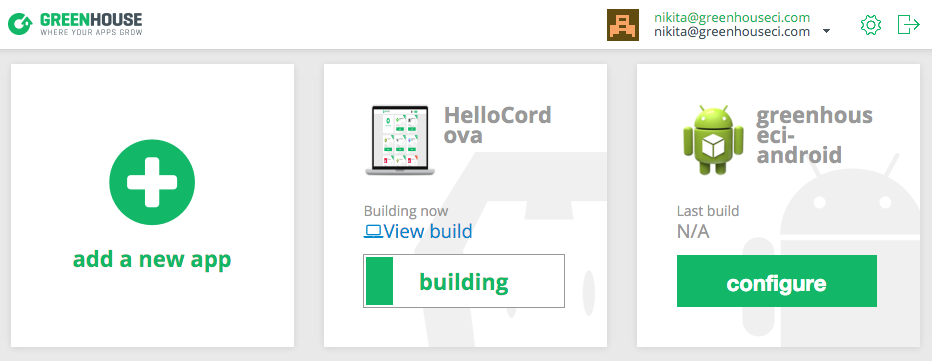
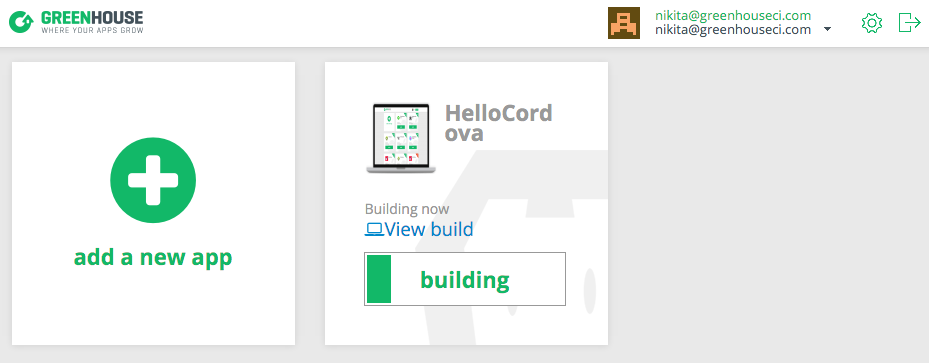
Use more suitable image assets in the cordova tutorial

diff --git a/pages/cordova_tutorial.md b/pages/cordova_tutorial.md
@@ -33,7 +33,7 @@ But let's get our hands dirty and see how the process works in detail.
 The first time you log in to [Greenhouse](https://app.greenhouseci.com) you'll be
 presented with an empty dashboard that encourages you to "Add an app to get started!"
 Let's get going by clicking on "add new app".
-![Greenhouse dashboard]({{ site.url }}/assets/empty-dashboard.png "Greenhouse dashboard")
+![Greenhouse dashboard]({{ site.url }}/assets/empty-dashboard-cordova.png "Greenhouse dashboard")
 
 <h2 id="specify-git-repository">Specify Git repository</h2>
 
